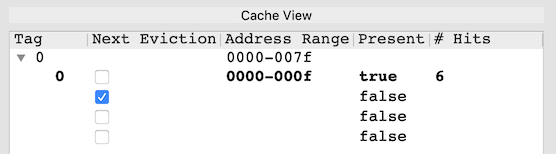
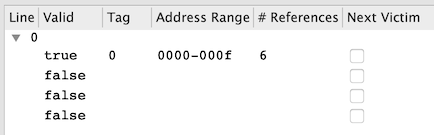
pep9asm Help -> Cache -> Step 1

diff --git a/pep9/pep9asm-lib/help-asm/cache.html b/pep9/pep9asm-lib/help-asm/cache.html
@@ -81,17 +81,39 @@ Here is the cache view after the first step.
 <p>
 <img src="qrc:/help-asm/images/cachetrace03.png" alt="cachetrace03" hspace=10 vspace=10>
 <p>
-The first column displays the Line number.
-Because there are three line bits and 2<sup>3</sup>=8, the chache table has 8 entries and the cache line number will be a value in the range 0..7.
-In this step, the line number is 0.
+Because this is a 4-way set-associative cache, each entry (<i>i.e.</i> line) in the cache table is a set of four blocks from memory.
+Each block in the above cache view is on a separate row.
 <p>
-The second column displays the Tag number.
+The first column displays the Line number.
+Because there are three line bits and 2<sup>3</sup>=8, the cache table has 8 entries and the cache line number will be a value in the range 0..7.
+In this step, the line number is 0.
+The figure does not show the remaining seven lines.
+<p>
+The second column displays the Valid bit.
+The valid bit of the first element in the set is 1, or true, indicating that the first element contains a valid copy of the data from main memory.
+<p>
+The third column displays the Tag number.
 Because there are 9 tag bits and 2<sup>9</sup>=512, there are 512 16-byte blocks in main memory that map into each entry of the cache table, and the Tag number will be a value in the range 0..511.
 In this step, the tag number is 0.
 <p>
-Because this is a 4-way set-associative cache, each entry (<i>i.e.</i> Line) in the cache table is a set of four blocks from memory.
-Each block in the above cache view is on a separate row.
-Each row contains the Tag for that block, the
+The physical content of the cache consists of the valid bit, the tag field, and the copy of the block from memory.
+The cache view does not display the copy of the block directly.
+If you want to see the block from memory, right-click the entry in the cache view.
+<p>
+The fourth column displays the range of main memory addresses covered by the block.
+In this example, the block contains the 16 bytes from main memory addresses 0000 to 000F.
+<p>
+The fifth column displays the number of memory references thus far in the execution.
+Each entry in the cache table is initially loaded because of a cache miss.
+Each subsequent reference to prefetched bytes is a cache hit.
+Therefore, the number of cache hits is always the number of cache references minus one.
+<p>
+In this step, the number of references is three, which means there was one cache miss and two cache hits.
+The first cache miss was the fetch of the instruction specifier byte.
+The two cache hits were the fetch of the two bytes of the operand specifier that were preloaded into the cache during the cache miss.
+<p>
+The sixth column is only relevant when the set is full and a cache miss requires a new block to be copied into that line.
+If all the valid bits are true, the Next Victim column shows which element from the set will be replaced.
 <p>
 <h4>Step 2.</h4>
 <p>
